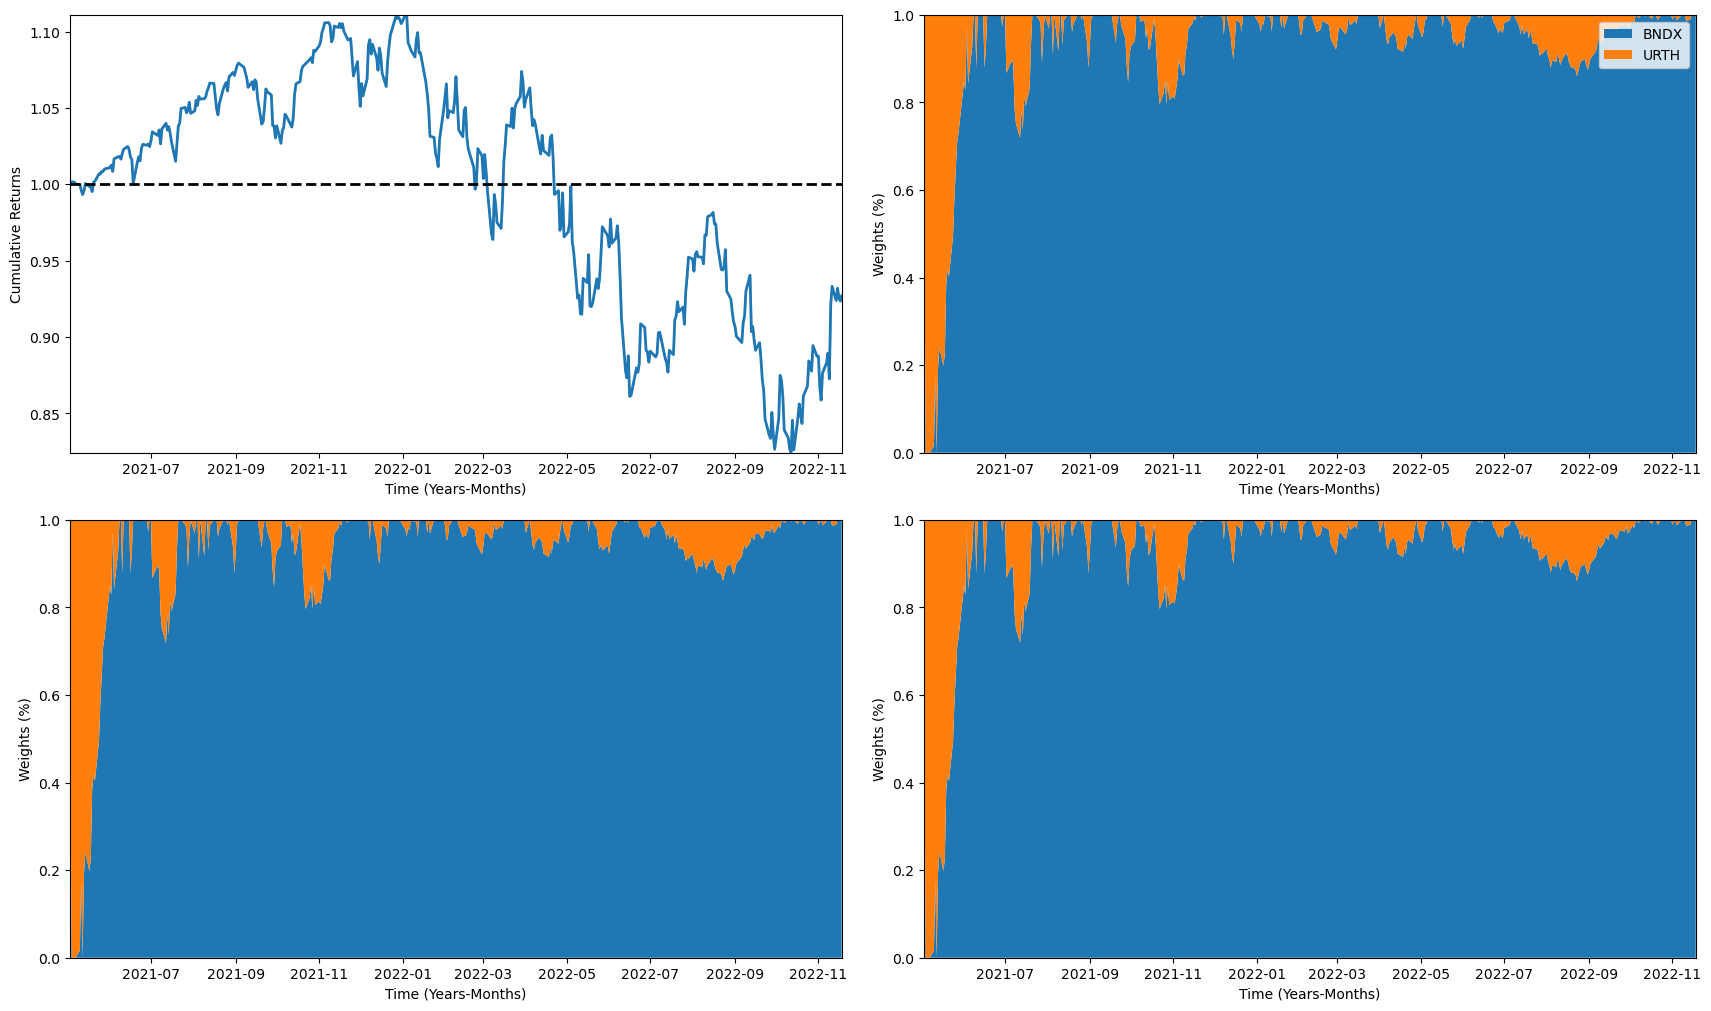
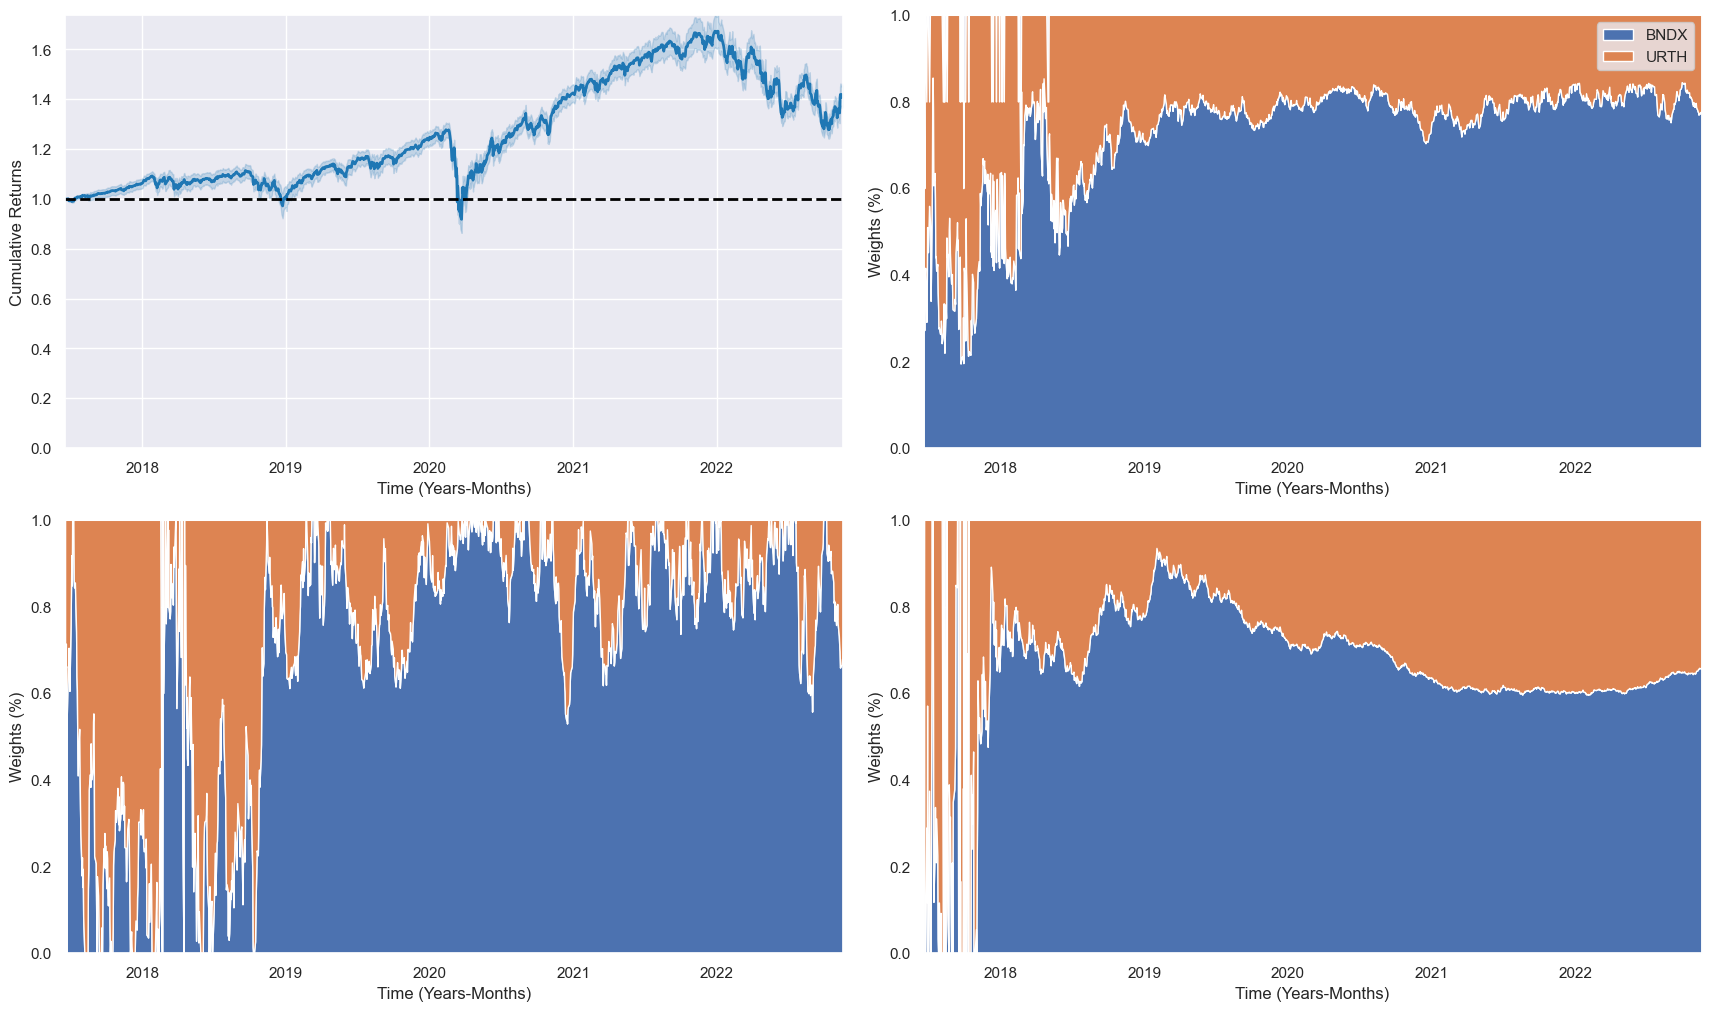
small update to PPO

diff --git a/src/agents/PPO.py b/src/agents/PPO.py
@@ -6,11 +6,16 @@ import time
 import numpy as np
 import pandas as pd
 import sys
-sys.path.append("..")
-from envs.StockTrading import StockEnv
+import seaborn as sns
+
+if True:
+    sys.path.append("..")
+    from envs.StockTrading import StockEnv
+
+sns.set_theme()
 
 tickers = ['BNDX', 'URTH']
-start_date = '2019-01-01'
+start_date = '2012-01-01'
 end_date = "2022-11-20"
 df = pdr.get_data_yahoo([tickers][0], start=start_date, end=end_date)
 
@@ -22,17 +27,17 @@ data['Adj Close'] = data['Adj Close'].bfill()
 df = df.bfill(axis=1)
 data = data['Adj Close']
 
-train_pct = 0.8
+train_pct = 0.5
 samples_train = int(train_pct*len(data))
-#print(len(data))
+# print(len(data))
 data_train = data[:samples_train]
 data_test = data[samples_train:]
 
 max_trade = 30
-balance = 0
+balance = 10000
 transaction_fee = 0.001
 
-plt.rcParams["figure.figsize"] = (10,6)
+plt.rcParams["figure.figsize"] = (10, 6)
 for i in tickers:
     plt.plot(data[i], label=i)
 
@@ -41,16 +46,17 @@ plt.legend()
 plt.margins(x=0)
 plt.ylabel("Closing Share Prise (USD)")
 plt.xlabel("Time (Years)")
-plt.savefig('StockPrice.png',bbox_inches='tight')
+plt.savefig('StockPrice.png', bbox_inches='tight')
 
-
-runs = 3
+# start training and predicting
+runs = 5
 timesteps = 10000
+
 
 def train():
     policy = "MlpPolicy"
     train_env = DummyVecEnv([lambda: StockEnv(df=data_train)])
-    model = PPO(policy, train_env, verbose=1, seed=42)
+    model = PPO(policy, train_env, verbose=1)
     start = time.time()
     model.learn(total_timesteps=timesteps)
     end = time.time()
@@ -63,13 +69,13 @@ def predict():
     actions_memory = []
     env = DummyVecEnv([lambda: StockEnv(df=data_test)])
     obs = env.reset()
-    ppo.set_random_seed(42)
     for i in range(len(data_test.index.unique())):
         action, _states = ppo.predict(obs)
         obs, rewards, dones, info = env.step(action)
         if i == (len(data_test.index.unique()) - 2):
             actions_memory = env.env_method(method_name="get_action_memory")
     return actions_memory[0]
+
 
 length = data_test.shape[0]
 stocks = data_test.shape[1]
@@ -87,6 +93,9 @@ while (i < runs):
     Cumulative_returns_daily_drl_ppo[i] = (1+return_stocks_ppo).cumprod()
     i = i+1
 
+
+# plotting the results
+
 fig, axs = plt.subplots(2, 2, figsize=(17, 10), constrained_layout=True)
 
 ppo_mean = np.mean(np.array(Cumulative_returns_daily_drl_ppo), axis=0)
@@ -97,6 +106,7 @@ axs[0, 0].fill_between(data_test.index, ppo_mean - ppo_std,
                        ppo_mean + ppo_std, alpha=0.2, color='tab:blue')
 axs[0, 0].margins(x=0)
 axs[0, 0].margins(y=0)
+axs[0, 0].set_ylim(0)
 axs[0, 0].axhline(1, color='black', linestyle='--', lw=2)
 axs[0, 0].set_ylabel("Cumulative Returns")
 axs[0, 0].set_xlabel("Time (Years-Months)")
